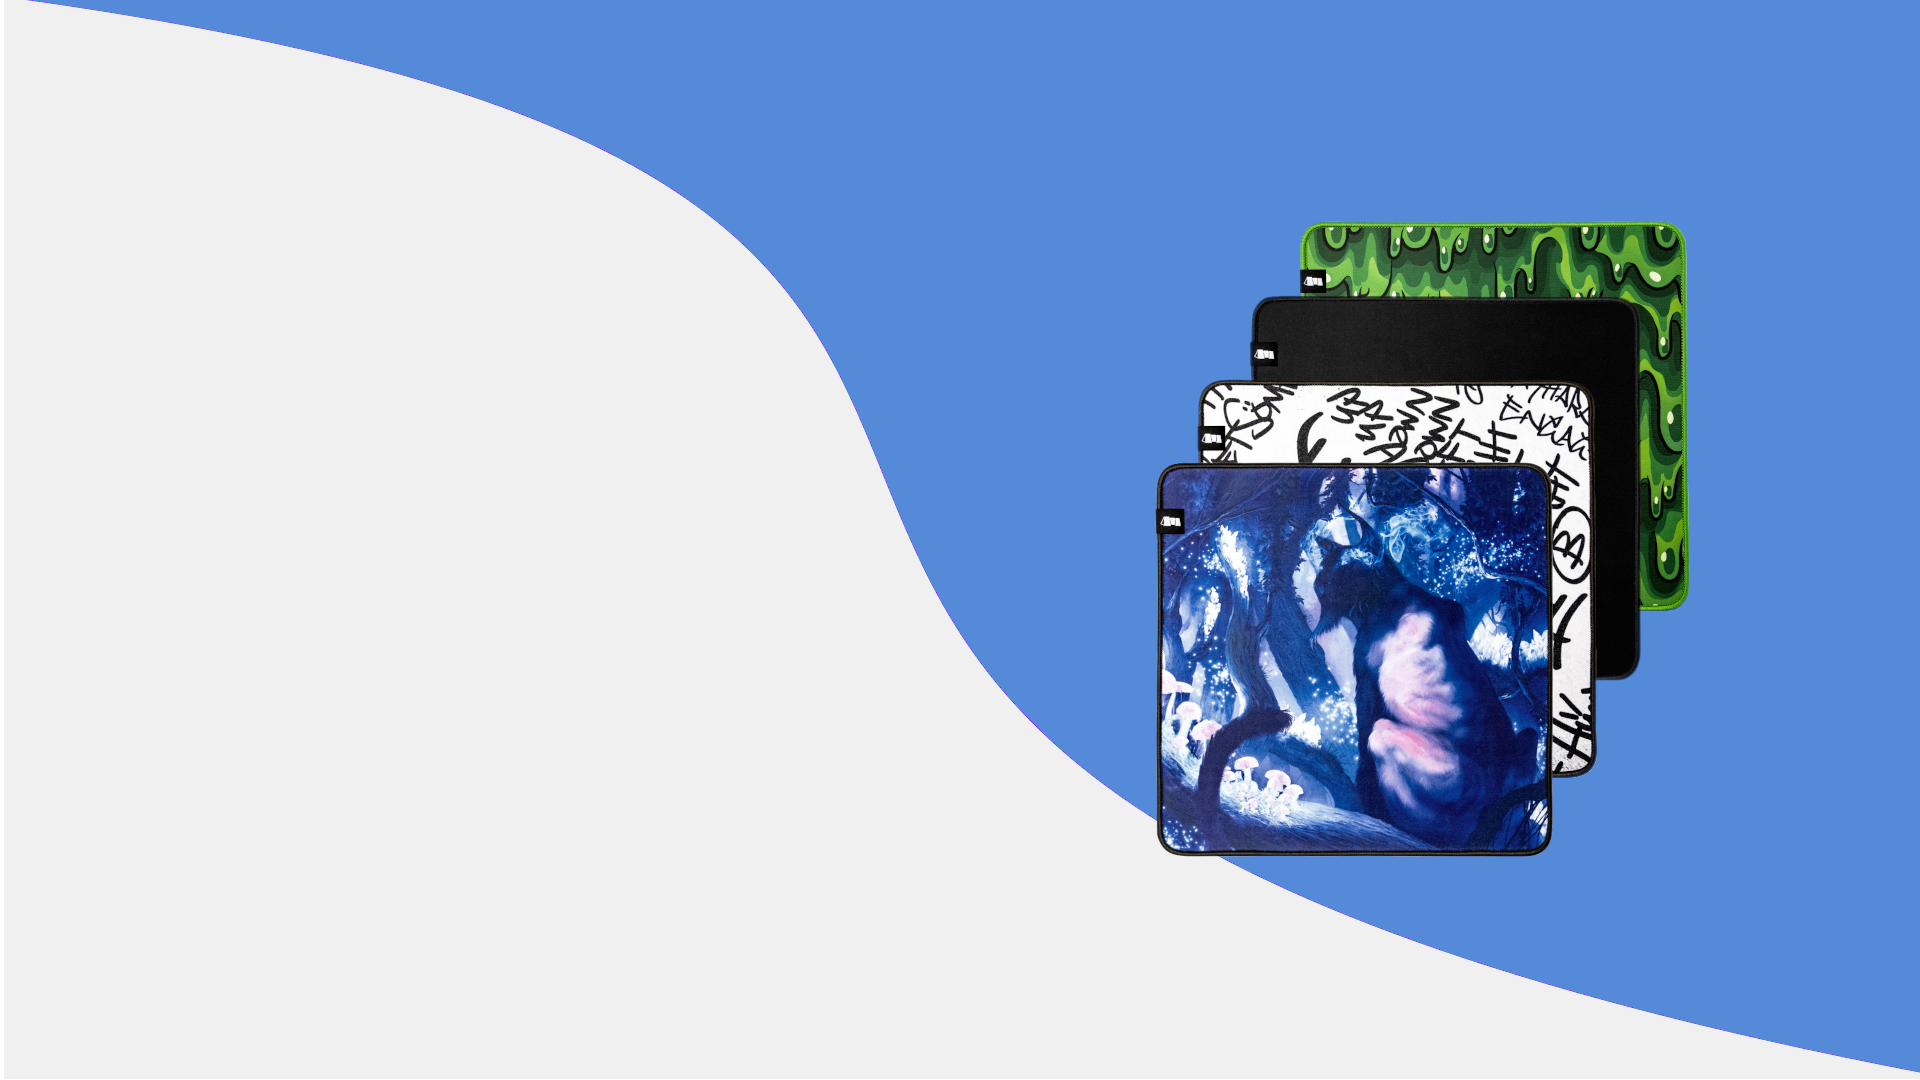
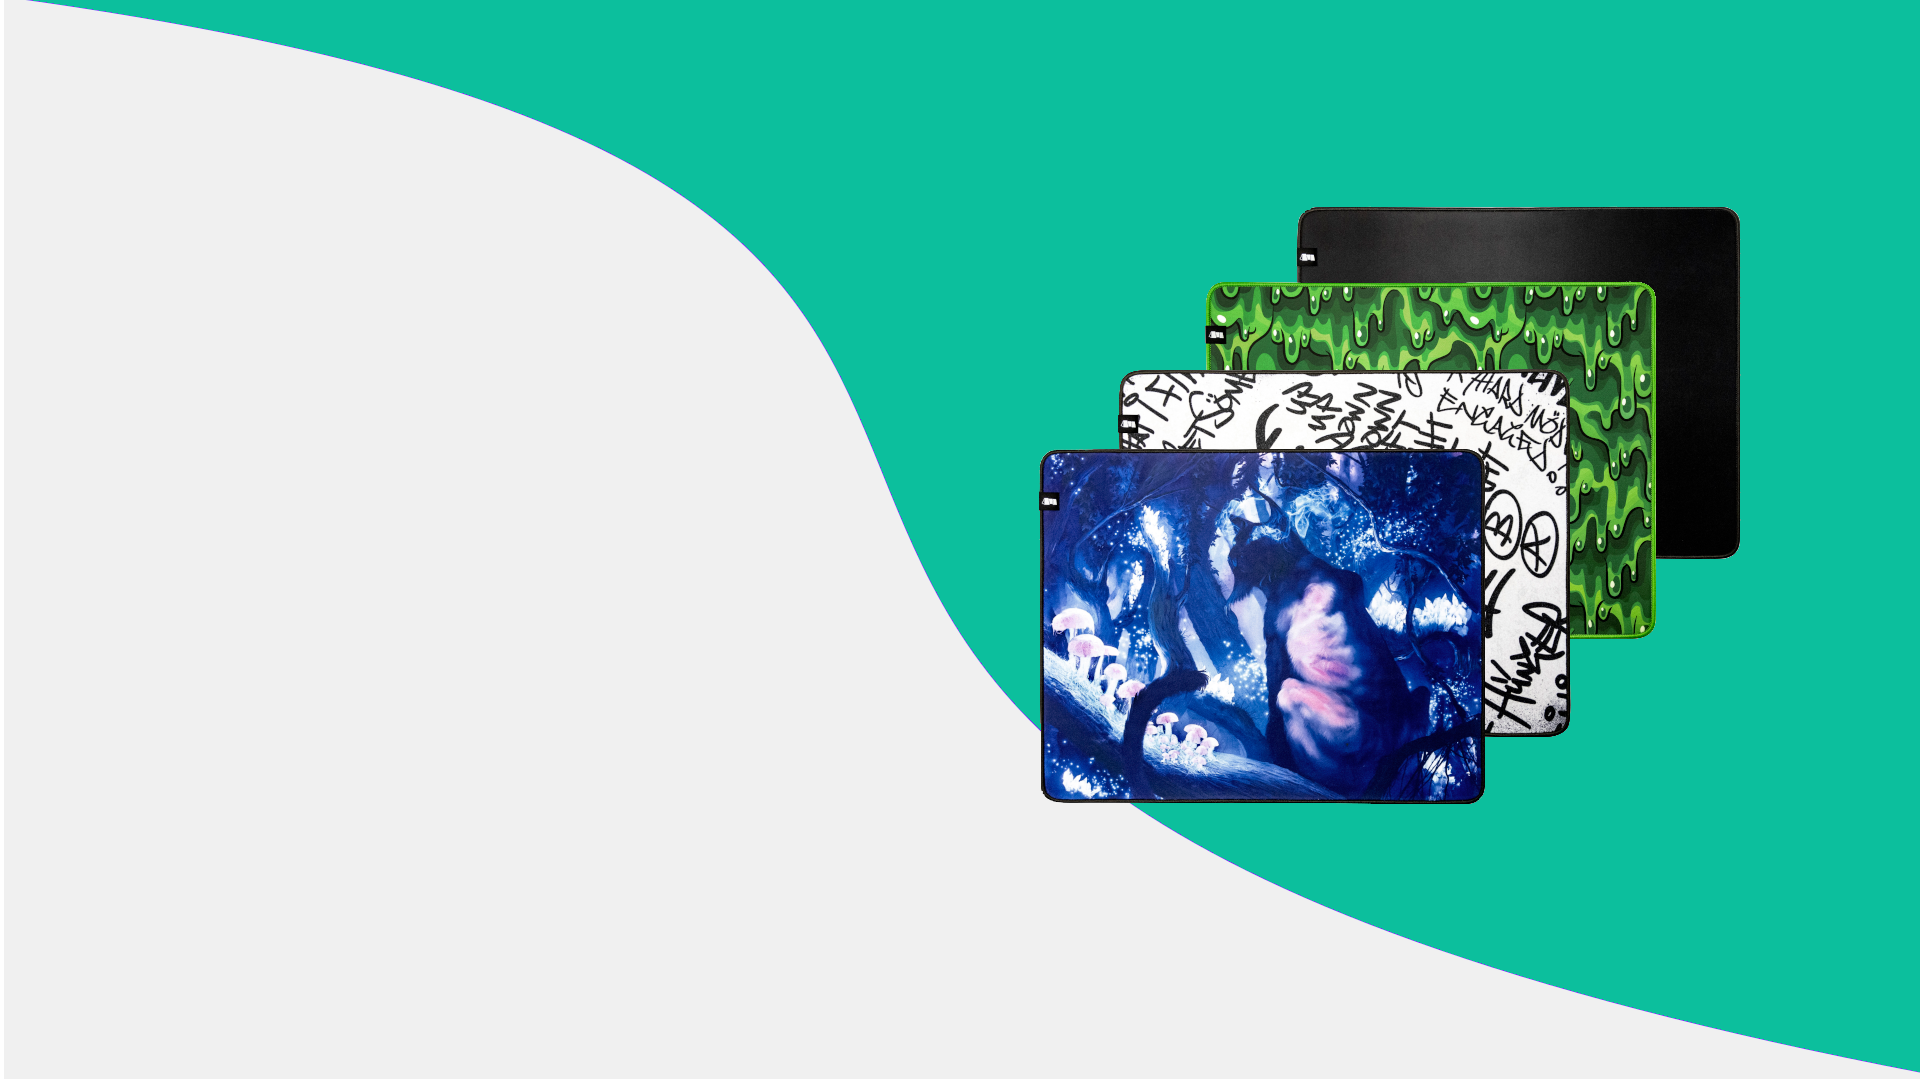
changed hero background color and added m508 instead of m330. Also updated the size select in the buy menu

diff --git a/app.js b/app.js
@@ -43,6 +43,7 @@ document.addEventListener('DOMContentLoaded', function(){
 
     //Code to control the buy modal
     var buyBtn = document.querySelector(".buyBubble");
+    var buyAmazon = document.querySelector(".buyBtn");
     var modal = document.querySelector(".modal");
     var mpStyle = document.querySelector(".styleContainer");
     var previewModel = document.querySelector(".previewSelectContainer");
@@ -83,6 +84,8 @@ document.addEventListener('DOMContentLoaded', function(){
         displayStyle(style);
     })
 
+    buyAmazon.addEventListener('click', goToAmazon);    
+
 
     //build a string based on the style object that will navigate to the right image folder / file 
     //to be displayed in the right elements
@@ -106,21 +109,79 @@ document.addEventListener('DOMContentLoaded', function(){
 
     function goToAmazon(){
 
-        switch(true){
-            case style.size == "m330" :
+        switch(style.size){
+            case "m330" :
+                switch(style.name){
+                    case "aethera" :
+                        window.open('https://www.amazon.com/Monolith-M-330-Anti-Fray-13x13x0-2-330x330x5mm/dp/B07S46PDSJ/ref=sr_1_25?keywords=monolith+mouse+pads&qid=1569941854&sr=8-25', '_blank');
+                        break;
+                    case "classic" :
+                        window.open('https://www.amazon.com/Monolith-M-330-Anti-Fray-13x13x0-2-330x330x5mm/dp/B07S5PVKT7/ref=sr_1_7?keywords=monolith+mouse+pads&qid=1569941854&sr=8-7', '_blank');
+                        break;
+                    case "clova" :
+                        window.open('https://www.amazon.com/Monolith-M-330-Anti-Fray-13x13x0-2-330x330x5mm/dp/B07RZW94GS/ref=sr_1_14?keywords=monolith+mouse+pads&qid=1569944963&sr=8-14', '_blank');
+                        break;
+                    case "nightSchool" :
+                        window.open('https://www.amazon.com/Monolith-M-330-NIGHTSCHOOL-Anti-Fray-330x330x5mm/dp/B07S33RG38/ref=sr_1_15?keywords=monolith+mouse+pads&qid=1569945033&sr=8-15', '_blank');
+                        break;
+                    case "redShift" :
+                        window.open('https://www.amazon.com/Monolith-M-330-Anti-Fray-13x13x0-2-330x330x5mm/dp/B07S472PFW/ref=sr_1_10?keywords=monolith+mouse+pads&qid=1569941854&sr=8-10', '_blank');
+                        break;
+                    case "slime" :
+                        window.open('https://www.amazon.com/Monolith-M-330-Anti-Fray-13x13x0-2-330x330x5mm/dp/B07S467G8D/ref=sr_1_18?keywords=monolith+mouse+pads&qid=1569944886&sr=8-18', '_blank');
+                        break;
+                    case "smokeScreen" :
+                        window.open('https://www.amazon.com/Monolith-M-330-Smokescreen-Anti-Fray-330x330x5mm/dp/B07S6SQ2BB/ref=sr_1_13?keywords=monolith+mouse+pads&qid=1569941854&sr=8-13', '_blank');
+                        break;
+                    case "summerSchool" :
+                        window.open('https://www.amazon.com/Monolith-M-330-SUMMERSCHOOL-Anti-Fray-330x330x5mm/dp/B07S58M1NP/ref=sr_1_17?keywords=monolith+mouse+pads&qid=1569941854&sr=8-17', '_blank');
+                        break;
+                    case "wakeUpCall" :
+                        window.open('https://www.amazon.com/Monolith-M-330-Anti-Fray-13x13x0-2-330x330x5mm/dp/B07S1YS733/ref=sr_1_11?keywords=monolith+mouse+pads&qid=1569941854&sr=8-11', '_blank');
+                        break;
+                }
                 break;
-            case style.size == "m508" :
+            case "m508" :
+                switch(style.name){
+                    case "aethera" :
+                        window.open('https://www.amazon.com/Monolith-M-508-Anti-Fray-20x16x0-2-508x406x5mm/dp/B07S3F5M9R/ref=sr_1_16?keywords=monolith+mouse+pads&qid=1569941854&sr=8-16', '_blank');
+                        break;
+                    case "classic" :
+                        window.open('https://www.amazon.com/Monolith-M-508-Anti-Fray-20x16x0-2-508x406x5mm/dp/B07RRRWMBR/ref=sr_1_1?keywords=monolith+mouse+pads&qid=1569941836&sr=8-1', '_blank');
+                        break;
+                    case "clova" :
+                        window.open('https://www.amazon.com/Monolith-M-508-Anti-Fray-20x16x0-2-508x406x5mm/dp/B07S4HLNZF/ref=sr_1_8?keywords=monolith+mouse+pads&qid=1569941854&sr=8-8', '_blank');
+                        break;
+                    case "nightSchool" :
+                        window.open('https://www.amazon.com/Monolith-M-508-NIGHTSCHOOL-Anti-Fray-508x406x5mm/dp/B07S16KHWW/ref=sr_1_9?keywords=monolith+mouse+pads&qid=1569941854&sr=8-9', '_blank');
+                        break;
+                    case "redShift" :
+                        window.open('https://www.amazon.com/Monolith-M-508-Anti-Fray-20x16x0-2-508x406x5mm/dp/B07S3DWGT5/ref=sr_1_24?keywords=monolith+mouse+pads&qid=1569941854&sr=8-24', '_blank');
+                        break;
+                    case "slime" :
+                        window.open('https://www.amazon.com/Monolith-M-508-Anti-Fray-20x16x0-2-508x406x5mm/dp/B07S16XVKG/ref=sr_1_5?keywords=monolith+mouse+pads&qid=1569941854&sr=8-5', '_blank');
+                        break;
+                    case "smokeScreen" :
+                        window.open('https://www.amazon.com/Monolith-M-508-Anti-Fray-20x16x0-2-508x406x5mm/dp/B07S16XVKG/ref=sr_1_5?keywords=monolith+mouse+pads&qid=1569941854&sr=8-5', '_blank');
+                        break;
+                    case "summerSchool" :
+                        window.open('https://www.amazon.com/Monolith-M-508-SUMMERSCHOOL-Anti-Fray-508x406x5mm/dp/B07RZ44S9W/ref=sr_1_19?keywords=monolith+mouse+pads&qid=1569941854&sr=8-19', '_blank');
+                        break;
+                    case "wakeUpCall" :
+                        window.open('https://www.amazon.com/Monolith-M-508-Anti-Fray-20x16x0-2-508x406x5mm/dp/B07S16L4L8/ref=sr_1_12?keywords=monolith+mouse+pads&qid=1569941854&sr=8-12', '_blank');
+                        break;
+                }
                 break;
         };
-        
+
      // classic m-508      : https://www.amazon.com/Monolith-M-508-Anti-Fray-20x16x0-2-508x406x5mm/dp/B07RRRWMBR/ref=sr_1_1?keywords=monolith+mouse+pads&qid=1569941836&sr=8-1
      // classic m-330      : https://www.amazon.com/Monolith-M-330-Anti-Fray-13x13x0-2-330x330x5mm/dp/B07S5PVKT7/ref=sr_1_7?keywords=monolith+mouse+pads&qid=1569941854&sr=8-7  
      // slime m-508        : https://www.amazon.com/Monolith-M-508-Anti-Fray-20x16x0-2-508x406x5mm/dp/B07S16XVKG/ref=sr_1_5?keywords=monolith+mouse+pads&qid=1569941854&sr=8-5
-     // slime m-330        : https://www.amazon.com/Monolith-M-508-Anti-Fray-20x16x0-2-508x406x5mm/dp/B07S16XVKG/ref=sr_1_5?keywords=monolith+mouse+pads&qid=1569941854&sr=8-5
+     // slime m-330        : https://www.amazon.com/Monolith-M-330-Anti-Fray-13x13x0-2-330x330x5mm/dp/B07S467G8D/ref=sr_1_18?keywords=monolith+mouse+pads&qid=1569944886&sr=8-18
      // smokeScreen m-508  : https://www.amazon.com/Monolith-M-508-Anti-Fray-20x16x0-2-508x406x5mm/dp/B07S16XVKG/ref=sr_1_5?keywords=monolith+mouse+pads&qid=1569941854&sr=8-5
      // smokeScreen m-330  : https://www.amazon.com/Monolith-M-330-Smokescreen-Anti-Fray-330x330x5mm/dp/B07S6SQ2BB/ref=sr_1_13?keywords=monolith+mouse+pads&qid=1569941854&sr=8-13
      // clova m-508        : https://www.amazon.com/Monolith-M-508-Anti-Fray-20x16x0-2-508x406x5mm/dp/B07S4HLNZF/ref=sr_1_8?keywords=monolith+mouse+pads&qid=1569941854&sr=8-8
-     // clova m-330        : https://www.amazon.com/Monolith-M-330-Anti-Fray-13x13x0-2-330x330x5mm/dp/B07RZW94GS/ref=sr_1_14?keywords=monolith+mouse+pads&qid=1569941854&sr=8-14
+     // clova m-330        : https://www.amazon.com/Monolith-M-330-Anti-Fray-13x13x0-2-330x330x5mm/dp/B07RZW94GS/ref=sr_1_14?keywords=monolith+mouse+pads&qid=1569944963&sr=8-14
      // nightSchool m-508  : https://www.amazon.com/Monolith-M-508-NIGHTSCHOOL-Anti-Fray-508x406x5mm/dp/B07S16KHWW/ref=sr_1_9?keywords=monolith+mouse+pads&qid=1569941854&sr=8-9
      // nightSchool m-330  : https://www.amazon.com/Monolith-M-330-NIGHTSCHOOL-Anti-Fray-330x330x5mm/dp/B07S33RG38/ref=sr_1_15?keywords=monolith+mouse+pads&qid=1569941854&sr=8-15
      // redShift m-330     : https://www.amazon.com/Monolith-M-330-Anti-Fray-13x13x0-2-330x330x5mm/dp/B07S472PFW/ref=sr_1_10?keywords=monolith+mouse+pads&qid=1569941854&sr=8-10

diff --git a/style.css b/style.css
@@ -4,6 +4,10 @@
     font-family: 'Roboto', sans-serif;
 }
 
+label {
+    outline: 0 !important;
+}
+
 .container{
     position: relative;
 }
@@ -70,7 +74,7 @@
 
 .hero{
     width: 100vw;
-    height:100vh;
+    height:90vh;
     background-image: url("assets/general/monolithHero.png");
     background-size: 103%;
     background-position: center;
@@ -84,7 +88,7 @@
 .centerWrap{
     position: absolute;
     left: 25px;
-    top: 30%;
+    top: 15%;
     /* background: rgb(255,255,255);
     background: linear-gradient(90deg, rgba(255,255,255,0) 0%, rgba(255,255,255,0) 20%, rgba(255,255,255,1) 50%, rgba(255,255,255,0) 80%); */
     /* background: rgb(255,255,255);
@@ -97,9 +101,8 @@
 
 .logo{
     position: relative;
-    width: 55px;
-    margin: 7px 0 7px 12px;
-    z-index: 100;
+    width: 25%;
+    margin: 7px 0 40px 12px;
 }
 
 .header{
@@ -343,16 +346,11 @@ background: linear-gradient(152deg, rgba(2,0,36,1) 0%, rgba(9,121,87,1) 0%, rgba
 .btnSelectWrap{
     display:flex;
     justify-content: space-between;
+    margin-bottom: 2rem;
 }
 
 .selectWrap{
-    display:flex;
-    flex-direction: column;
-    align-items: center;
-    justify-content: space-around;
-    width: 45%;
-    border: solid 1px rgb(226, 226, 226);
-    padding: 7px;
+    margin-right:1.5rem;
 }
 
 .sizeSelect{
@@ -360,12 +358,104 @@ background: linear-gradient(152deg, rgba(2,0,36,1) 0%, rgba(9,121,87,1) 0%, rgba
 }
 
 .buyBtn{
-    font-size: 17px;
-    background:green;
-    width:150px;
-    padding: 10px;
-    border: solid 1px black;
+    font-size: .7rem;
+    background:rgb(23, 212, 23);
+    padding: .7rem 2rem;
     border-radius: 5px;
     color: white;
-    align-self: flex-end;
+    align-self: center;
 }
+
+
+/* RADIO BUTTON */
+
+/* TOGGLE STYLING */
+.toggle {
+    box-sizing: border-box;
+    font-size: 0;
+    display: flex;
+    flex-flow: row nowrap;
+    justify-content: flex-start;
+    align-items: stretch;
+  }
+  .toggle input {
+    width: 0;
+    height: 0;
+    position: absolute;
+    left: -9999px;
+  }
+  .toggle input + label {
+    margin: 0;
+    padding: .7rem 2rem;
+    box-sizing: border-box;
+    position: relative;
+    display: inline-block;
+    border: solid 1px #DDD;
+    background-color: #FFF;
+    font-size: .7rem;
+    line-height: 140%;
+    font-weight: 600;
+    text-align: center;
+    box-shadow: 0 0 0 rgba(255, 255, 255, 0);
+    transition: border-color .15s ease-out,  color .25s ease-out,  background-color .15s ease-out, box-shadow .15s ease-out;
+    /* ADD THESE PROPERTIES TO SWITCH FROM AUTO WIDTH TO FULL WIDTH */
+    /*flex: 0 0 50%; display: flex; justify-content: center; align-items: center;*/
+    /* ----- */
+  }
+  .toggle input + label:first-of-type {
+    border-radius: 6px 0 0 6px;
+    border-right: none;
+  }
+  .toggle input + label:last-of-type {
+    border-radius: 0 6px 6px 0;
+    border-left: none;
+  }
+  .toggle input:hover + label {
+    border-color: #213140;
+  }
+  .toggle input:checked + label {
+    background-color: #4B9DEA;
+    color: #FFF;
+    box-shadow: 0 0 10px rgba(102, 179, 251, 0.5);
+    border-color: #4B9DEA;
+    z-index: 1;
+  }
+  .toggle input:focus + label {
+    outline: dotted 1px #CCC;
+    outline-offset: .45rem;
+  }
+  @media (max-width: 800px) {
+    .toggle input + label {
+      padding: .75rem .25rem;
+      flex: 0 0 50%;
+      display: flex;
+      justify-content: center;
+      align-items: center;
+    }
+  }
+  
+  /* STYLING FOR THE STATUS HELPER TEXT FOR THE DEMO */
+  .status {
+    margin: 0;
+    font-size: 1rem;
+    font-weight: 400;
+  }
+  .status span {
+    font-weight: 600;
+    color: #B6985A;
+  }
+  .status span:first-of-type {
+    display: inline;
+  }
+  .status span:last-of-type {
+    display: none;
+  }
+  @media (max-width: 800px) {
+    .status span:first-of-type {
+      display: none;
+    }
+    .status span:last-of-type {
+      display: inline;
+    }
+  }
+  

diff --git a/index.html b/index.html
@@ -10,12 +10,12 @@
 </head>
 <body>
     <div class="container">
-        <nav class="header">
+        <!-- <nav class="header">
             <img class="logo" src="./assets/general/logo.png" />
             <div id="linkWrap">
 
             </div>
-        </nav>
+        </nav> -->
         <div class="modal">
             <div class="styleContainer">
                 <img src="./assets/top/m330-aethera.jpg" alt="Aethera" data-style="aethera" class="mpStyle">
@@ -44,11 +44,18 @@
                 </div>
                 <div class="btnSelectWrap">
                     <div class="selectWrap">
-                        <h3>Size</h3>
+                        <!-- <h3>Size</h3>
                         <select name="" id="" class="sizeSelect">
                             <option value="m330">M330 (Normal)</option>
                             <option value="m508">M508 (Large)</option>
-                        </select>
+                        </select> -->
+
+                        <div class="toggle sizeSelect">
+                            <input type="radio" name="sizeBy" value="m330" id="sizeWeight" checked="checked" />
+                            <label for="sizeWeight">M330 (Regular)</label>
+                            <input type="radio" name="sizeBy" value="m508" id="sizeDimensions" />
+                            <label for="sizeDimensions">M508 (Large)</label>
+                        </div>
                     </div>
                     <button class="buyBtn">Buy</button>
                 </div>
@@ -60,6 +67,7 @@
         </div>
         <div class="hero">
             <div class="centerWrap">
+                <img class="logo" src="./assets/general/logo.png" />
                 <span class="title">WE BRING</span>
                 <span class="title">A NEW STANDARD</span>
                 <span class="title">TO MOUSEPADS</span>
